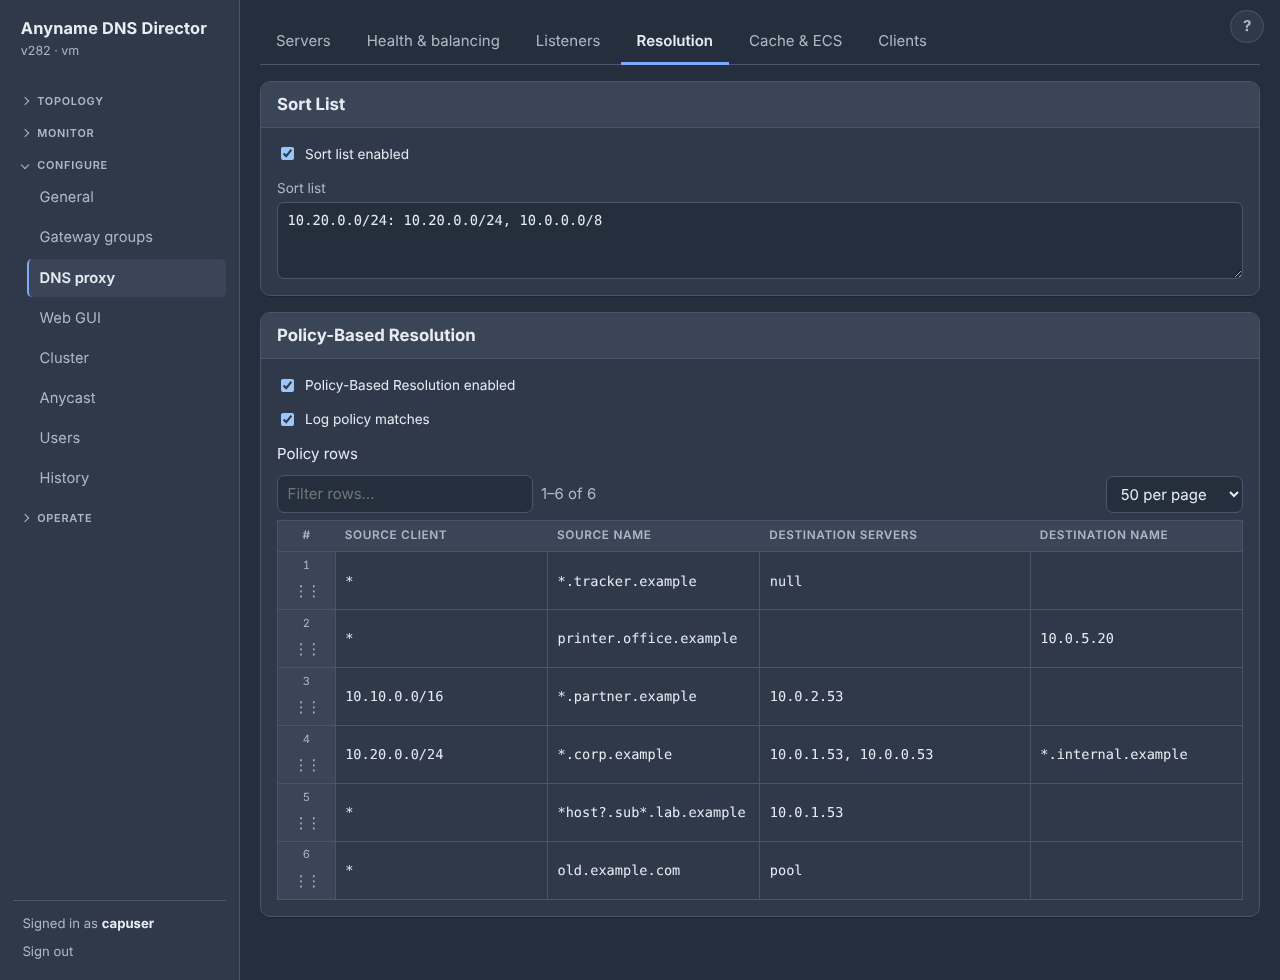
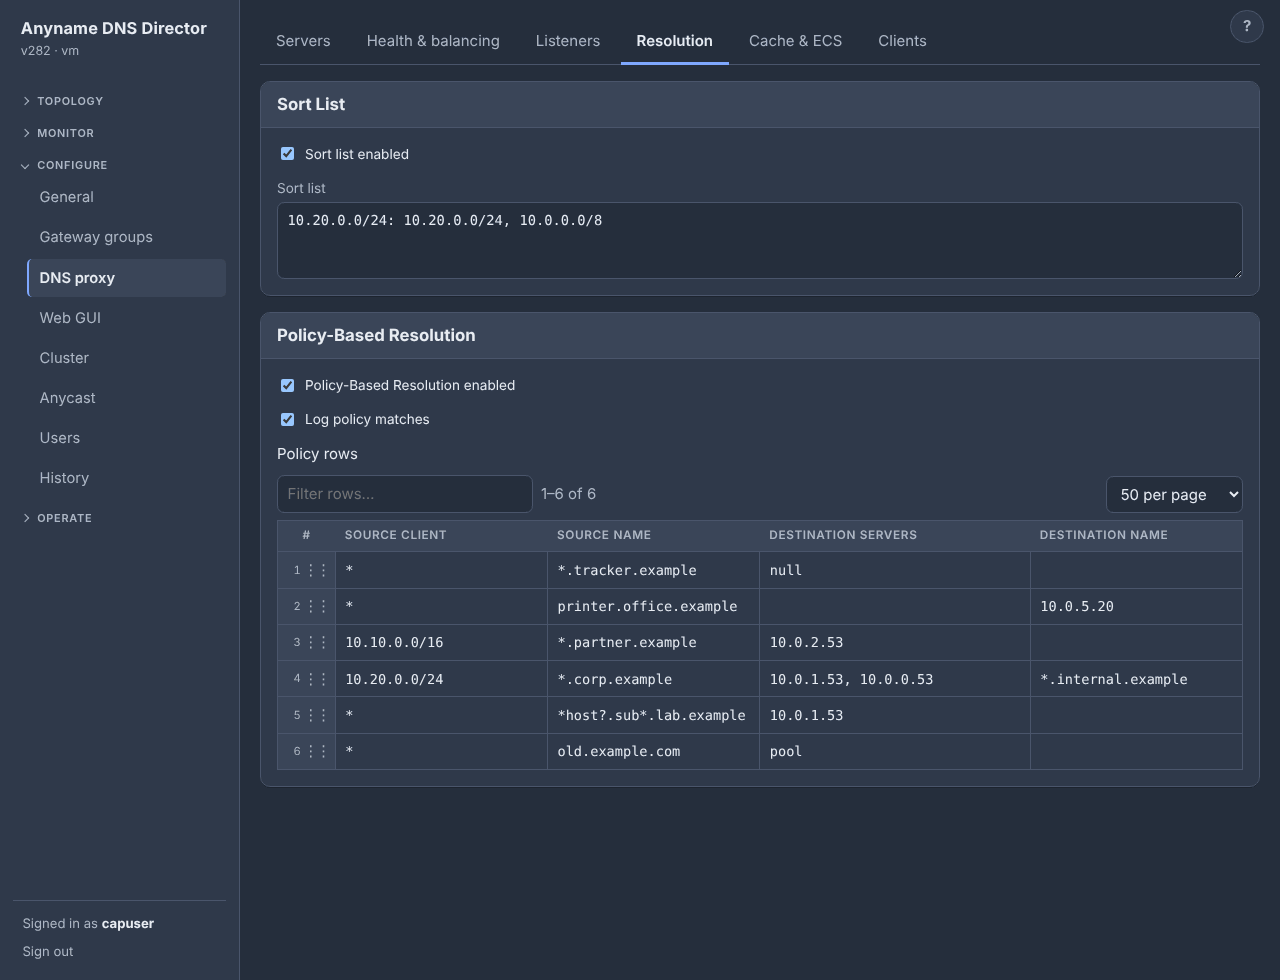
see changelog for release info

diff --git a/source/webui/app.js b/source/webui/app.js
@@ -3711,7 +3711,9 @@
       } finally { morph(real, listBox); listBox = real; }
     }
 
+    let shown = "";   // what the detail panel is showing: the mode and the account
     function drawDetail() {
+      shown = mode + "/" + (mode === "user" ? sel : "");
       clear(detail);
       if (mode === "new") {
         const name = h("input", { type: "text", autocomplete: "off", spellcheck: "false", autocapitalize: "none", maxlength: "32" });
@@ -3740,25 +3742,37 @@
       if (!u) { detail.append(h("div", { class: "empty" }, users.length ? "Choose a user on the left." : "Add a user to get started.")); return; }
       const self = u.name === me();
       const pw = h("input", { type: "password", autocomplete: "new-password", "aria-label": "New password for " + u.name });
-      const pwNote = h("span", { class: "usaved", "aria-live": "polite" }), dNote = h("span", { class: "usaved", "aria-live": "polite" });
-      const saved = (el) => { el.textContent = "Saved"; setTimeout(() => { if (el.textContent === "Saved") el.textContent = ""; }, 2500); };
-      // both fields save by themselves: the password when the field is left or Enter is pressed, the date as soon as one is chosen
-      const setPw = () => { if (!pw.value) return; call("password", { username: u.name, password: pw.value }, () => { pw.value = ""; saved(pwNote); }); };
-      pw.addEventListener("change", setPw);
       const d = h("input", { type: "date", value: u.expires ? dateText(u) : "", "aria-label": "Expiry date for " + u.name });
-      d.addEventListener("change", () => call("expiry", { username: u.name, expires: d.value ? toUnix(d.value) : 0 }, () => saved(dNote)));   // blank = never expires
+      const note = h("span", { class: "usaved", "aria-live": "polite" });
+      // Save sends what changed: a new password if one was typed, the date if it differs (blank = never expires)
+      const save = async () => {
+        const was = u.expires ? dateText(u) : "";
+        if (!pw.value && d.value === was) { note.textContent = "Nothing to save"; return; }
+        note.textContent = "";
+        if (pw.value) {
+          let ok = true;
+          await call("password", { username: u.name, password: pw.value }, () => { pw.value = ""; });
+          if (pw.value) ok = false;   // still there: the call failed and the message is shown above
+          if (!ok) return;
+        }
+        if (d.value !== was) await call("expiry", { username: u.name, expires: d.value ? toUnix(d.value) : 0 });
+        drawDetail();
+        const n = detail.querySelector(".usaved"); if (n) n.textContent = "Saved";
+      };
+      pw.addEventListener("keydown", (e) => { if (e.key === "Enter") save(); });
       const body = h("div", { class: "body ubody" },
-        h("div", { class: "urow" }, h("label", { class: "f grow" }, "New password", pw), pwNote),
-        h("div", { class: "urow" }, h("label", { class: "f grow" }, "Expires (blank = never)", d), dNote));
+        h("div", { class: "urow" }, h("label", { class: "f grow" }, "New password", pw)),
+        h("div", { class: "urow" }, h("label", { class: "f grow" }, "Expires (blank = never)", d)));
+      const left = [];
       if (!self) {
-        body.append(h("div", { class: "urow end" },
-          h("button", { class: "btn", type: "button", onclick: () => {
-            if (confirm("Disable " + u.name + "?\n\nThe account is kept; it just cannot sign in here any more.")) call("revoke", { username: u.name });
-          } }, "Disable"),
-          h("button", { class: "btn danger", type: "button", onclick: () => {
-            if (confirm("Delete the account " + u.name + "?")) call("delete", { username: u.name });
-          } }, "Delete")));
+        left.push(h("button", { class: "btn", type: "button", onclick: () => {
+          if (confirm("Disable " + u.name + "?\n\nThe account is kept; it just cannot sign in here any more.")) call("revoke", { username: u.name });
+        } }, "Disable"),
+        h("button", { class: "btn danger", type: "button", onclick: () => {
+          if (confirm("Delete the account " + u.name + "?")) call("delete", { username: u.name });
+        } }, "Delete"));
       }
+      body.append(h("div", { class: "urow actions" }, ...left, h("span", { class: "grow" }), note, h("button", { class: "btn primary", type: "button", onclick: save }, "Save")));
       detail.append(h("header", {}, h("h2", {}, u.name)), body);
     }
 
@@ -3784,12 +3798,10 @@
         others = r.others || [];
         group = r.group;
         if (otherList) clear(otherList).append(...others.map((n) => h("option", { value: n })));
-        const first = !current() && mode === "user";
-        if (first) sel = users.length ? users[0].name : null;
+        if (mode === "user" && !current()) sel = users.length ? users[0].name : null;
         drawList();
-        // the detail panel is left alone on a poll so what is being typed survives; it is redrawn when it first has something to show
-        if (first || !detail.firstChild) drawDetail();
-        else if (mode === "user" && !current()) drawDetail();
+        // the panel is left alone on a poll so what is being typed survives, and redrawn when what it should show has changed
+        if (!detail.firstChild || shown !== mode + "/" + (mode === "user" ? sel : "")) drawDetail();
       },
     };
   })();

diff --git a/source/webui/style.css b/source/webui/style.css
@@ -502,8 +502,8 @@ table.policy tr.incomplete td:nth-child(4) { box-shadow: inset 0 0 0 2px var(--a
 .dtab:hover { color: var(--text); }
 .dtab.on { color: var(--text); font-weight: 600; border-bottom-color: var(--accent); }
 .dtab:focus-visible { outline: 2px solid var(--accent); outline-offset: -2px; border-radius: 6px; }
-table.policy td.grip { text-align: center; width: 3.6rem; background: var(--surface-2); }
-table.policy .grip-h { display: block; cursor: grab; color: var(--muted); letter-spacing: -.15em; padding: .4rem 0; user-select: none; }
+table.policy td.grip { text-align: center; width: 3.6rem; background: var(--surface-2); white-space: nowrap; }
+table.policy .grip-h { display: inline-block; vertical-align: middle; cursor: grab; color: var(--muted); letter-spacing: -.15em; padding: .4rem .15rem; user-select: none; }
 table.policy .grip-h:active { cursor: grabbing; }
 table.policy tr.dragging { opacity: .45; }
 table.policy tr.drop-above td { box-shadow: inset 0 3px 0 var(--accent); }
@@ -517,7 +517,7 @@ table.policy tr.drop-below td { box-shadow: inset 0 -3px 0 var(--accent); }
 .policy-pager { display: inline-flex; align-items: center; gap: .35rem; }
 .policy-pager[hidden], .policy-empty[hidden] { display: none; }
 .policy-box .policy-wrap { margin-top: .4rem; }
-table.policy .rownum { display: block; font-size: .7rem; color: var(--muted); text-align: center; padding-top: .3rem; }
+table.policy .rownum { display: inline-block; vertical-align: middle; font-size: .7rem; color: var(--muted); min-width: 1.2rem; text-align: right; }
 
 /* Users: list on the left, the chosen account on the right */
 .usersplit { display: flex; gap: 1rem; align-items: flex-start; flex-wrap: wrap; }
@@ -538,5 +538,6 @@ table.policy .rownum { display: block; font-size: .7rem; color: var(--muted); te
 .ubody { display: flex; flex-direction: column; gap: 1.2rem; }
 .urow { display: flex; gap: .6rem; align-items: flex-end; flex-wrap: wrap; }
 .urow .grow { flex: 1 1 12rem; }
-.urow.end { justify-content: flex-end; border-top: 1px solid var(--border); padding-top: 1rem; }
+.urow.actions { border-top: 1px solid var(--border); padding-top: 1rem; align-items: center; }
+.urow.actions .grow { flex: 1 1 auto; }
 .usaved { color: var(--ok); font-size: .85rem; align-self: center; min-width: 3rem; }

diff --git a/source/webui/help.js b/source/webui/help.js
@@ -580,7 +580,7 @@ const DDGW_HELP = {
       ["ul", [
         "The accounts are listed on the left (with a filter box); pick one to work on it on the right. **+ New** opens the form for a new account.",
         "**Add user** creates an account with no shell and no home directory, in the GUI group, so it can sign in here and do nothing else on the machine.",
-        "**New password** and **Expires** save by themselves: the password when you leave the field or press Enter, the date as soon as you pick it. Clear the date to let the account never expire; from the date on the operating system refuses the account.",
+        "Pick an account, then type a **New password** and/or change **Expires**, and press **Save** (Enter in the password field does the same). A blank date means the account never expires; from the date on the operating system refuses the account.",
         "**Add an existing account…** puts an account that is already on the machine into the GUI group so it can sign in here with the password it already has (nothing about the account is changed). The Name box suggests the ordinary accounts that are not in the group yet; type any other account name to add that one. On the other nodes the account is added to the group where it exists and created with the same password where it does not.",
         "**Disable** takes the account out of the GUI group and keeps the account (it just cannot sign in here any more). It works for any listed account except yourself and the last one; an account that is in the group only because it is its primary group is refused, with the reason.",
         "**Delete** removes the account. You cannot delete yourself or the last account that can sign in.",

diff --git a/README.md b/README.md
@@ -54,8 +54,6 @@ To install the latest tagged release straight from GitHub (this also upgrades an
 
 ```
 curl -fsSL https://raw.githubusercontent.com/micush/ddgw/HEAD/get.sh | sudo bash
-curl -fsSL https://raw.githubusercontent.com/micush/ddgw/HEAD/get.sh | sudo bash -s -- --add-user alice
-curl -fsSL https://raw.githubusercontent.com/micush/ddgw/HEAD/get.sh | sudo bash -s -- --version v215
 ```
 
 `get.sh` finds the newest GitHub release (or, if there is none, the highest `v<number>` tag), downloads that tag's source archive and runs its `install.sh`. Everything after `--` goes to `install.sh`, except `--version TAG`, which installs that tag instead. It needs `curl` or `wget`, and `tar`. To publish a version, push a tag named `v<VERSION>` (for example `v223`).
@@ -626,7 +624,7 @@ The PAM binding uses cgo, so build natively with `libpam0g-dev` (Debian and Ubun
 
 Configure ▸ Users (or `ddgw --users`) manages the accounts that may sign in to the GUI: the members of the GUI group (`ddgw`, or `web.group`). They are ordinary operating-system accounts on the node, managed with `useradd`, `usermod`, `userdel` and `chpasswd`, so PAM stays the single place passwords are checked. A new account has no shell and no home directory and exists only to sign in. Each account can have an expiry date, and the operating system refuses it from that day.
 
-The accounts are listed on the left. Pick one to change it on the right: the password and the expiry date save as soon as you leave the field (clear the date and the account never expires), **Disable** takes the account out of the group while keeping it, and **Delete** removes it. **+ New** and **Add an existing account…** open their forms in the same place.
+The accounts are listed on the left. Pick one to change it on the right: type a new password and/or change the expiry date and press **Save** (leave the date blank and the account never expires). **Disable** takes the account out of the group while keeping it, and **Delete** removes it. **+ New** and **Add an existing account…** open their forms in the same place.
 
 ![Configure ▸ Users: the accounts on the left, the chosen account on the right](snaps/users.png)
 

diff --git a/docs/CHANGELOG.md b/docs/CHANGELOG.md
@@ -1,5 +1,31 @@
 # Changelog
 
+## [v287] - 2026-10-09 — Users: Save button; install example trimmed
+
+### Changed
+- Users page: the password and expiry no longer save by themselves. A **Save** button at the right of the form sends what changed (a typed password, a different date; blank date = never expires); **Disable** and **Delete** are at the left.
+- README: the `get.sh` example lines with `--add-user` and `--version` are removed.
+
+### Fixed
+- Users page: after **Add user** or **Add an existing account…** the form stayed on screen instead of showing the new account.
+
+### Verified
+gofmt, vet, `go test -race -count=1 .`, cgo-off and arm64 builds, `node --check`. In a browser: Add user then Save with a new date and password.
+
+### Not verified
+Disable and Delete from the new position; Add an existing account.
+
+## [v286] - 2026-10-09 — Policy table: normal row height
+
+### Fixed
+- Policy rows were about twice as tall as they need to be because the row number and the drag handle were stacked in the first cell. They now sit side by side, so a row is one input high. The README's policy screenshot is retaken.
+
+### Verified
+gofmt, vet, `go test -race -count=1 .`, cgo-off and arm64 builds, `node --check`. Row height checked in a browser.
+
+### Not verified
+Dragging a row by the handle after the change (only the handle's layout changed).
+
 ## [v285] - 2026-10-09 — Users page: list and detail
 
 ### Changed
